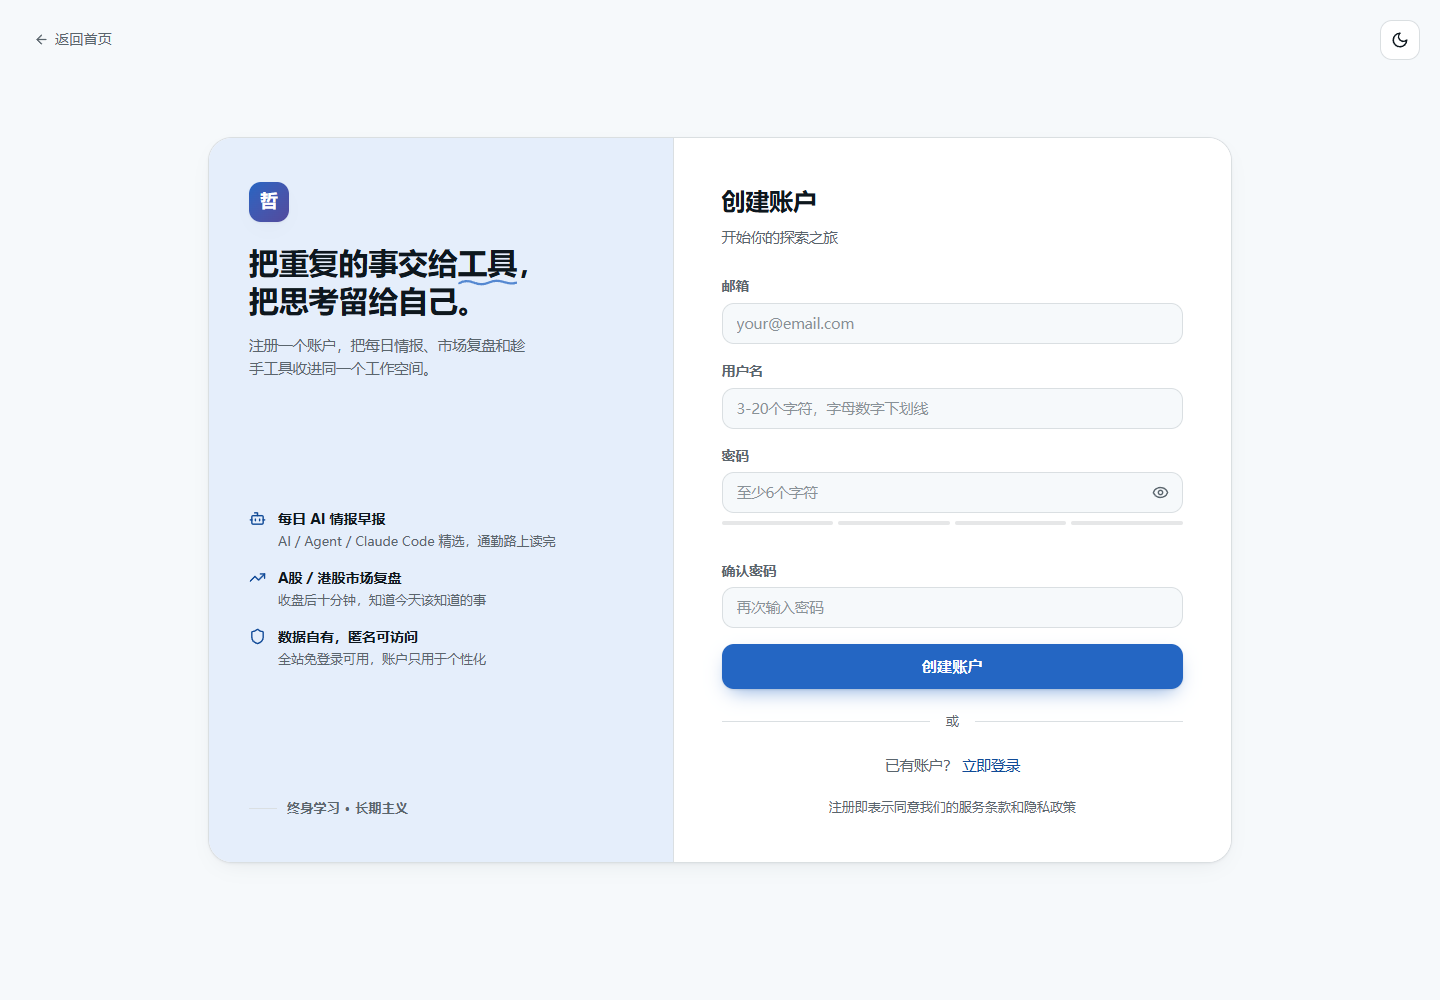
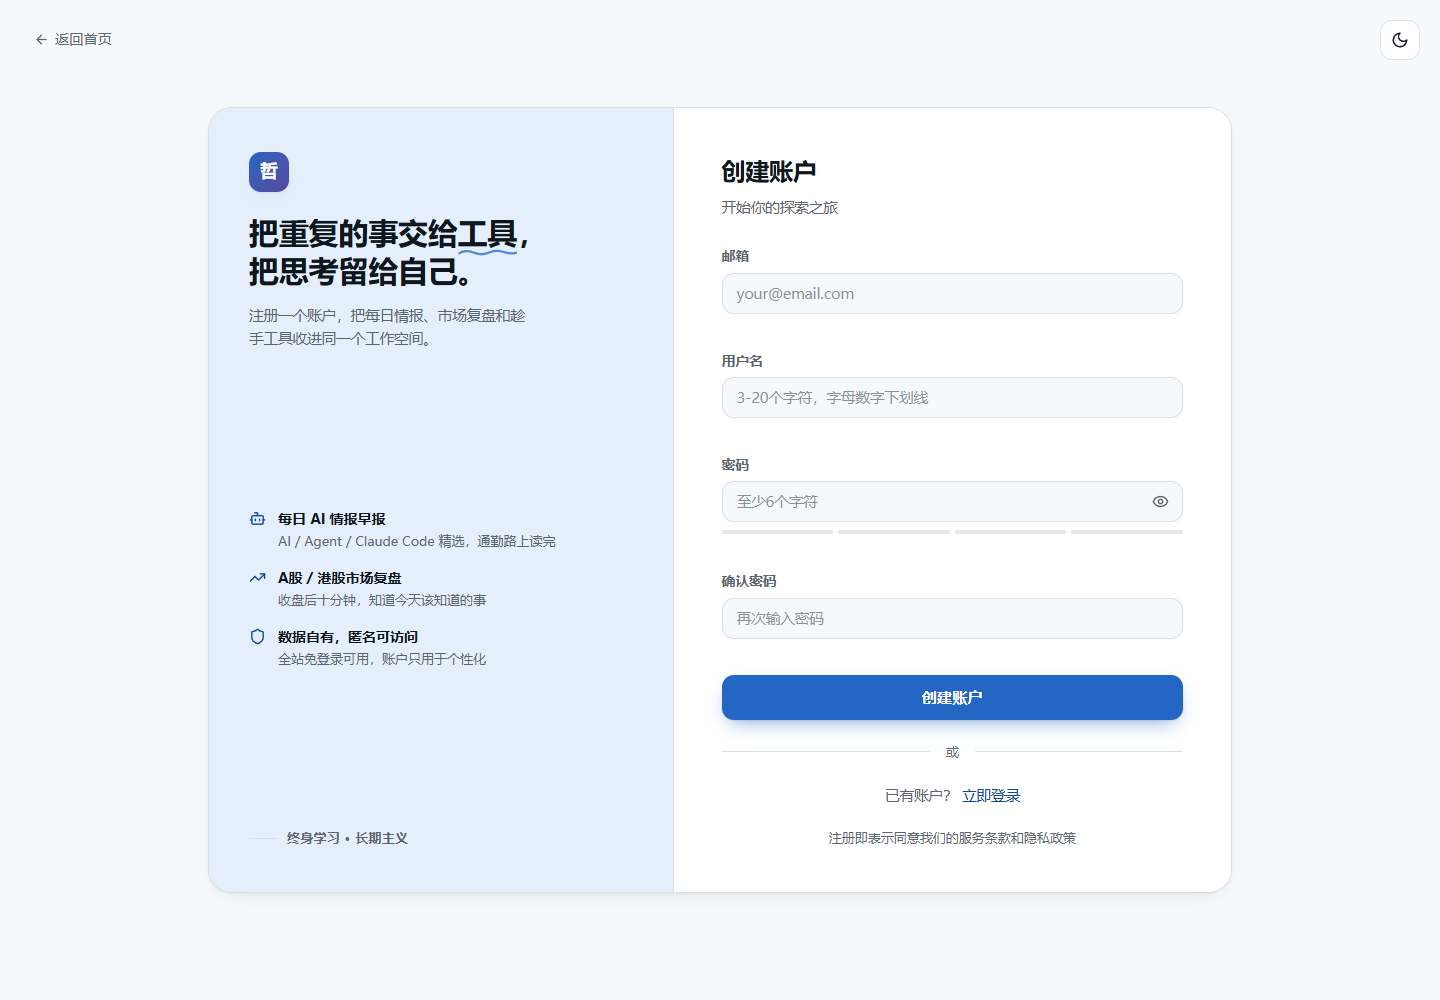
docs: 设计稿登录/注册补充字段级校验与入场动效
- 为 login/register 表单增加 field-msg 校验态与 od-input err/ok 边框样式
- 新增 anim-rise 入场 stagger 与 anim-shake 错误弹簧动效原语，reduced-motion 全部回退
- 更新 preview-register.png 预览图

Changed region(s): [[0.5, 0.155, 0.8438, 0.868], [0.1562, 0.155, 0.375, 0.372], [0.1875, 0.806, 0.2812, 0.868]]

diff --git a/design/register.html b/design/register.html
@@ -16,7 +16,7 @@
   <div class="od-card auth-shell" data-od-id="register-shell">
     <!-- 左栏 · 品牌叙事 -->
     <aside class="auth-brand" data-od-id="brand-panel">
-      <div class="auth-brand-top">
+      <div class="auth-brand-top anim-rise">
         <span class="brand-badge">哲</span>
         <div>
           <h2>把重复的事交给<span class="u">工具<svg viewBox="0 0 120 12" preserveAspectRatio="none"><path d="M2 8 Q 16 2, 32 7 T 62 7 T 92 6 T 118 7" fill="none" stroke="currentColor" stroke-width="3.5" stroke-linecap="round"/></svg></span>，<br>把思考留给自己。</h2>
@@ -24,58 +24,61 @@
         </div>
       </div>
 
-      <ul class="auth-points">
+      <ul class="auth-points anim-rise d2">
         <li><i data-icon="bot" data-size="17"></i><div><b>每日 AI 情报早报</b><span>AI / Agent / Claude Code 精选，通勤路上读完</span></div></li>
         <li><i data-icon="trending-up" data-size="17"></i><div><b>A股 / 港股市场复盘</b><span>收盘后十分钟，知道今天该知道的事</span></div></li>
         <li><i data-icon="shield" data-size="17"></i><div><b>数据自有，匿名可访问</b><span>全站免登录可用，账户只用于个性化</span></div></li>
       </ul>
 
-      <div class="auth-brand-foot">终身学习 · 长期主义</div>
+      <div class="auth-brand-foot anim-rise d3">终身学习 · 长期主义</div>
     </aside>
 
     <!-- 右栏 · 注册表单 -->
     <div class="auth-panel" data-od-id="register-panel">
-      <div class="auth-logo">
+      <div class="auth-logo anim-rise d1">
         <h1>创建账户</h1>
         <p>开始你的探索之旅</p>
       </div>
 
-      <form class="auth-form" id="register-form" novalidate>
-        <div>
+      <form class="auth-form anim-rise d2" id="register-form" novalidate>
+        <div class="field" data-field="email">
           <label class="od-label" for="email">邮箱</label>
           <input id="email" type="email" class="od-input" placeholder="your@email.com" autocomplete="email">
+          <p class="field-msg" id="msg-email"></p>
         </div>
-        <div>
+        <div class="field" data-field="username">
           <label class="od-label" for="username">用户名</label>
           <input id="username" type="text" class="od-input" placeholder="3-20个字符，字母数字下划线" autocomplete="username">
+          <p class="field-msg" id="msg-username"></p>
         </div>
-        <div>
+        <div class="field" data-field="password">
           <label class="od-label" for="password">密码</label>
           <div class="pwd-wrap">
             <input id="password" type="password" class="od-input" placeholder="至少6个字符" autocomplete="new-password">
             <button type="button" class="pwd-toggle" id="pwd-toggle" aria-label="显示密码"></button>
           </div>
           <div class="pwd-meter" id="pwd-meter" data-level="0" aria-hidden="true"><i></i><i></i><i></i><i></i></div>
-          <p class="pwd-hint" id="pwd-hint"></p>
+          <p class="field-msg" id="msg-password"></p>
         </div>
-        <div>
+        <div class="field" data-field="confirm">
           <label class="od-label" for="confirm">确认密码</label>
           <input id="confirm" type="password" class="od-input" placeholder="再次输入密码" autocomplete="new-password">
+          <p class="field-msg" id="msg-confirm"></p>
         </div>
         <div class="od-error with-icon" id="form-error" style="display:none"></div>
         <button type="submit" class="od-btn od-btn-primary od-btn-lg od-btn-block" id="submit-btn" data-od-id="register-submit">创建账户</button>
       </form>
 
-      <div class="auth-divider"><span>或</span></div>
-      <p class="auth-switch">已有账户？ <a href="login.html">立即登录</a></p>
-      <p class="auth-foot">注册即表示同意我们的服务条款和隐私政策</p>
+      <div class="auth-divider anim-rise d3"><span>或</span></div>
+      <p class="auth-switch anim-rise d4">已有账户？ <a href="login.html">立即登录</a></p>
+      <p class="auth-foot anim-rise d5">注册即表示同意我们的服务条款和隐私政策</p>
     </div>
   </div>
 </div>
 
 <script src="shared.js"></script>
 <script>
-/* 密码可见性切换 */
+/* ---------- 密码可见性切换 ---------- */
 const pwdInput = document.getElementById('password');
 const pwdToggle = document.getElementById('pwd-toggle');
 function syncToggleIcon() {
@@ -89,48 +92,98 @@ pwdToggle.addEventListener('click', () => {
 });
 syncToggleIcon();
 
-/* 密码强度反馈（纯视觉提示，不改变任何校验规则） */
+/* ---------- 密码强度反馈（纯视觉提示，不改变校验规则） ---------- */
 const meter = document.getElementById('pwd-meter');
-const hint = document.getElementById('pwd-hint');
+const pwdMsg = document.getElementById('msg-password');
 const LEVELS = ['', '弱 — 再加长一点', '一般 — 试试混入数字', '不错 — 再加符号更强', '很强'];
-pwdInput.addEventListener('input', () => {
-  const v = pwdInput.value;
-  if (!v) { meter.dataset.level = 0; hint.textContent = ''; return; }
+function pwdStrength(v) {
   let score = 0;
   if (v.length >= 6) score++;
   if (v.length >= 10) score++;
   if (/\d/.test(v) && /[a-zA-Z]/.test(v)) score++;
   if (/[^a-zA-Z0-9]/.test(v)) score++;
-  meter.dataset.level = Math.max(1, score);
-  hint.textContent = LEVELS[Math.max(1, score)];
+  return Math.max(1, score);
+}
+
+/* ---------- 字段级校验（规则与文案和 src/pages/RegisterPage.vue 完全一致） ---------- */
+const FIELDS = {
+  email:    { el: document.getElementById('email'),    msg: document.getElementById('msg-email'),
+              test: (v) => v.includes('@') || '请输入有效的邮箱地址', ok: '邮箱格式正确' },
+  username: { el: document.getElementById('username'), msg: document.getElementById('msg-username'),
+              test: (v) => v.length < 3 ? '用户名至少需要3个字符'
+                          : (/^[a-zA-Z0-9_]+$/.test(v) ? true : '用户名只能包含字母、数字和下划线'), ok: '用户名可用' },
+  password: { el: pwdInput, msg: pwdMsg,
+              test: (v) => v.length >= 6 || '密码至少需要6个字符' },
+  confirm:  { el: document.getElementById('confirm'),  msg: document.getElementById('msg-confirm'),
+              test: (v) => v === pwdInput.value || '两次输入的密码不一致', ok: '两次输入一致' },
+};
+
+function setState(key, state, text) {
+  const f = FIELDS[key];
+  f.el.classList.remove('err', 'ok');
+  f.msg.classList.remove('err', 'ok');
+  if (state) { f.el.classList.add(state); f.msg.classList.add(state); }
+  f.msg.innerHTML = text
+    ? `${state === 'err' ? odSvg('alert-circle', 13) : state === 'ok' ? odSvg('check', 13) : ''}<span>${text}</span>`
+    : '';
+}
+
+function validateField(key, { quiet = false } = {}) {
+  const f = FIELDS[key];
+  const v = f.el.value.trim();
+  if (!v) { setState(key, '', ''); return quiet; }   /* 空值不在 blur 时报错，留给提交 */
+  const r = f.test(v);
+  if (r === true) { setState(key, 'ok', f.ok || ''); return true; }
+  setState(key, 'err', r); return false;
+}
+
+/* blur 校验 + 出错后 input 实时复验 */
+Object.keys(FIELDS).forEach((key) => {
+  const f = FIELDS[key];
+  f.el.addEventListener('blur', () => validateField(key));
+  f.el.addEventListener('input', () => {
+    if (f.el.classList.contains('err') || f.el.classList.contains('ok')) validateField(key);
+  });
 });
 
-/* 提交：校验规则与文案和 src/pages/RegisterPage.vue 完全一致 */
+/* 密码输入：强度条 + hint（无错误时显示强度文案，出错时让位给错误） */
+pwdInput.addEventListener('input', () => {
+  const v = pwdInput.value;
+  if (!v) { meter.dataset.level = 0; if (!pwdInput.classList.contains('err')) setState('password', '', ''); return; }
+  const lv = pwdStrength(v);
+  meter.dataset.level = lv;
+  if (!pwdInput.classList.contains('err')) setState('password', '', LEVELS[lv]);
+});
+
+/* ---------- 提交：全量校验，聚焦并弹簧提示首个问题字段 ---------- */
 const form = document.getElementById('register-form');
 const errEl = document.getElementById('form-error');
 const btn = document.getElementById('submit-btn');
 form.addEventListener('submit', (e) => {
   e.preventDefault();
   errEl.style.display = 'none';
-  const email = document.getElementById('email').value.trim();
-  const username = document.getElementById('username').value.trim();
-  const pwd = pwdInput.value;
-  const confirm = document.getElementById('confirm').value;
 
-  const fail = (msg) => {
-    errEl.innerHTML = `${odSvg('alert-circle', 16)}<span>${msg}</span>`;
-    errEl.style.display = '';
-  };
-  if (!email.includes('@')) return fail('请输入有效的邮箱地址');
-  if (username.length < 3) return fail('用户名至少需要3个字符');
-  if (!/^[a-zA-Z0-9_]+$/.test(username)) return fail('用户名只能包含字母、数字和下划线');
-  if (pwd.length < 6) return fail('密码至少需要6个字符');
-  if (pwd !== confirm) return fail('两次输入的密码不一致');
+  let firstBad = null;
+  Object.keys(FIELDS).forEach((key) => {
+    const f = FIELDS[key];
+    const v = f.el.value.trim();
+    const r = v ? f.test(v) : ({ email: '请输入有效的邮箱地址', username: '用户名至少需要3个字符',
+                                 password: '密码至少需要6个字符', confirm: '两次输入的密码不一致' })[key];
+    if (r === true) setState(key, 'ok', FIELDS[key].ok || '');
+    else { setState(key, 'err', r); if (!firstBad) firstBad = f.el; }
+  });
+
+  if (firstBad) {
+    firstBad.focus();
+    const box = firstBad.closest('.field');
+    box.classList.remove('anim-shake'); void box.offsetWidth; box.classList.add('anim-shake');
+    return;
+  }
 
   btn.disabled = true; btn.textContent = '注册中...';
   setTimeout(() => {
     btn.disabled = false; btn.textContent = '创建账户';
-    errEl.innerHTML = '<span>演示环境：此处将调用 /api/auth/register，成功后自动登录并回首页</span>';
+    errEl.innerHTML = `${odSvg('alert-circle', 16)}<span>演示环境：此处将调用 /api/auth/register，成功后自动登录并回首页</span>`;
     errEl.style.display = '';
   }, 900);
 });

diff --git a/design/login.html b/design/login.html
@@ -16,7 +16,7 @@
   <div class="od-card auth-shell" data-od-id="login-shell">
     <!-- 左栏 · 品牌叙事 -->
     <aside class="auth-brand" data-od-id="brand-panel">
-      <div class="auth-brand-top">
+      <div class="auth-brand-top anim-rise">
         <span class="brand-badge">哲</span>
         <div>
           <h2>把重复的事交给<span class="u">工具<svg viewBox="0 0 120 12" preserveAspectRatio="none"><path d="M2 8 Q 16 2, 32 7 T 62 7 T 92 6 T 118 7" fill="none" stroke="currentColor" stroke-width="3.5" stroke-linecap="round"/></svg></span>，<br>把思考留给自己。</h2>
@@ -24,48 +24,50 @@
         </div>
       </div>
 
-      <ul class="auth-points">
+      <ul class="auth-points anim-rise d2">
         <li><i data-icon="bot" data-size="17"></i><div><b>每日 AI 情报早报</b><span>AI / Agent / Claude Code 精选，通勤路上读完</span></div></li>
         <li><i data-icon="trending-up" data-size="17"></i><div><b>A股 / 港股市场复盘</b><span>收盘后十分钟，知道今天该知道的事</span></div></li>
         <li><i data-icon="shield" data-size="17"></i><div><b>数据自有，匿名可访问</b><span>全站免登录可用，账户只用于个性化</span></div></li>
       </ul>
 
-      <div class="auth-brand-foot">终身学习 · 长期主义</div>
+      <div class="auth-brand-foot anim-rise d3">终身学习 · 长期主义</div>
     </aside>
 
     <!-- 右栏 · 登录表单 -->
     <div class="auth-panel" data-od-id="login-panel">
-      <div class="auth-logo">
+      <div class="auth-logo anim-rise d1">
         <h1>欢迎回来</h1>
         <p>登录你的账户继续探索</p>
       </div>
 
-      <form class="auth-form" id="login-form" novalidate>
-        <div>
+      <form class="auth-form anim-rise d2" id="login-form" novalidate>
+        <div class="field" data-field="login">
           <label class="od-label" for="login">邮箱或用户名</label>
           <input id="login" type="text" class="od-input" placeholder="输入邮箱或用户名" autocomplete="username">
+          <p class="field-msg" id="msg-login"></p>
         </div>
-        <div>
+        <div class="field" data-field="password">
           <label class="od-label" for="password">密码</label>
           <div class="pwd-wrap">
             <input id="password" type="password" class="od-input" placeholder="输入密码" autocomplete="current-password">
             <button type="button" class="pwd-toggle" id="pwd-toggle" aria-label="显示密码"></button>
           </div>
+          <p class="field-msg" id="msg-password"></p>
         </div>
         <div class="od-error with-icon" id="form-error" style="display:none"></div>
         <button type="submit" class="od-btn od-btn-primary od-btn-lg od-btn-block" id="submit-btn" data-od-id="login-submit">登录</button>
       </form>
 
-      <div class="auth-divider"><span>或</span></div>
-      <p class="auth-switch">还没有账户？ <a href="register.html">立即注册</a></p>
-      <p class="auth-foot">© 2026 Web Tools · 全站匿名可访问，登录用于展示个人信息</p>
+      <div class="auth-divider anim-rise d3"><span>或</span></div>
+      <p class="auth-switch anim-rise d4">还没有账户？ <a href="register.html">立即注册</a></p>
+      <p class="auth-foot anim-rise d5">© 2026 Web Tools · 全站匿名可访问，登录用于展示个人信息</p>
     </div>
   </div>
 </div>
 
 <script src="shared.js"></script>
 <script>
-/* 密码可见性切换 */
+/* ---------- 密码可见性切换 ---------- */
 const pwdInput = document.getElementById('password');
 const pwdToggle = document.getElementById('pwd-toggle');
 function syncToggleIcon() {
@@ -79,24 +81,54 @@ pwdToggle.addEventListener('click', () => {
 });
 syncToggleIcon();
 
-/* 提交（演示） */
+/* ---------- 字段级状态（登录只有非空约束） ---------- */
+const FIELDS = {
+  login:    { el: document.getElementById('login'), msg: document.getElementById('msg-login'),    empty: '请输入邮箱或用户名' },
+  password: { el: pwdInput,                         msg: document.getElementById('msg-password'), empty: '请输入密码' },
+};
+
+function setState(key, state, text) {
+  const f = FIELDS[key];
+  f.el.classList.remove('err', 'ok');
+  f.msg.classList.remove('err', 'ok');
+  if (state) { f.el.classList.add(state); f.msg.classList.add(state); }
+  f.msg.innerHTML = text
+    ? `${state === 'err' ? odSvg('alert-circle', 13) : odSvg('check', 13)}<span>${text}</span>`
+    : '';
+}
+
+Object.keys(FIELDS).forEach((key) => {
+  const f = FIELDS[key];
+  f.el.addEventListener('blur', () => { if (f.el.value.trim()) setState(key, '', ''); });
+  f.el.addEventListener('input', () => { if (f.el.classList.contains('err') && f.el.value.trim()) setState(key, '', ''); });
+});
+
+/* ---------- 提交：空值字段级提示，聚焦并弹簧提示首个 ---------- */
 const form = document.getElementById('login-form');
 const errEl = document.getElementById('form-error');
 const btn = document.getElementById('submit-btn');
 form.addEventListener('submit', (e) => {
   e.preventDefault();
   errEl.style.display = 'none';
-  const login = document.getElementById('login').value.trim();
-  const pwd = pwdInput.value;
-  if (!login || !pwd) {
-    errEl.innerHTML = `${odSvg('alert-circle', 16)}<span>请输入邮箱/用户名和密码</span>`;
-    errEl.style.display = '';
+
+  let firstBad = null;
+  Object.keys(FIELDS).forEach((key) => {
+    const f = FIELDS[key];
+    if (!f.el.value.trim()) { setState(key, 'err', f.empty); if (!firstBad) firstBad = f.el; }
+    else setState(key, '', '');
+  });
+
+  if (firstBad) {
+    firstBad.focus();
+    const box = firstBad.closest('.field');
+    box.classList.remove('anim-shake'); void box.offsetWidth; box.classList.add('anim-shake');
     return;
   }
+
   btn.disabled = true; btn.textContent = '登录中...';
   setTimeout(() => {
     btn.disabled = false; btn.textContent = '登录';
-    errEl.innerHTML = '<span>演示环境：此处将调用 /api/auth/login，成功后回跳来源页</span>';
+    errEl.innerHTML = `${odSvg('alert-circle', 16)}<span>演示环境：此处将调用 /api/auth/login，成功后回跳来源页</span>`;
     errEl.style.display = '';
   }, 900);
 });

diff --git a/design/shared.css b/design/shared.css
@@ -294,6 +294,24 @@ textarea.od-input { resize: none; line-height: 1.6; }
 .pwd-hint { font-size: 12.5px; color: var(--muted); margin-top: 6px; min-height: 1em; }
 .od-error.with-icon { display: flex; align-items: flex-start; gap: 8px; }
 .od-error.with-icon svg { flex-shrink: 0; margin-top: 1px; }
+
+/* ---------- 字段级校验态 ---------- */
+.field-msg { display: flex; align-items: center; gap: 5px; font-size: 12.5px; margin-top: 6px; min-height: 1.1em; color: var(--muted); transition: color .2s; }
+.field-msg.err { color: var(--danger); }
+.field-msg.ok { color: var(--success); }
+.od-input.err { border-color: color-mix(in oklch, var(--danger) 55%, var(--border)); }
+.od-input.err:focus { border-color: var(--danger); box-shadow: 0 0 0 3px color-mix(in oklch, var(--danger) 16%, transparent); }
+.od-input.ok { border-color: color-mix(in oklch, var(--success) 45%, var(--border)); }
+.od-input.ok:focus { border-color: var(--success); box-shadow: 0 0 0 3px color-mix(in oklch, var(--success) 14%, transparent); }
+
+/* ---------- 动效原语（emilkowalski 标准：入场 200–300ms / stagger 40–60ms / 错误弹簧） ---------- */
+@keyframes od-rise { from { opacity: 0; transform: translateY(14px); } to { opacity: 1; transform: none; } }
+.anim-rise { animation: od-rise .28s cubic-bezier(.22, .68, .35, 1) both; }
+.anim-rise.d1 { animation-delay: .05s; } .anim-rise.d2 { animation-delay: .10s; }
+.anim-rise.d3 { animation-delay: .15s; } .anim-rise.d4 { animation-delay: .20s; }
+.anim-rise.d5 { animation-delay: .25s; } .anim-rise.d6 { animation-delay: .30s; }
+@keyframes od-shake { 0%, 100% { transform: translateX(0); } 20% { transform: translateX(-7px); } 45% { transform: translateX(6px); } 70% { transform: translateX(-3px); } 88% { transform: translateX(2px); } }
+.anim-shake { animation: od-shake .38s cubic-bezier(.36, .07, .19, .97) both; }
 @media (max-width: 920px) {
   .auth-stage { padding: 16px; align-items: flex-start; }
   .auth-shell { grid-template-columns: 1fr; min-height: 0; margin-top: 44px; }
@@ -350,5 +368,6 @@ textarea.od-input { resize: none; line-height: 1.6; }
   html { scroll-behavior: auto; }
   .ticker-track { animation: none; }
   .status-dot { animation: none; }
+  .anim-rise, .anim-shake { animation: none; }
   *, *::before, *::after { transition-duration: 0.01ms !important; }
 }
